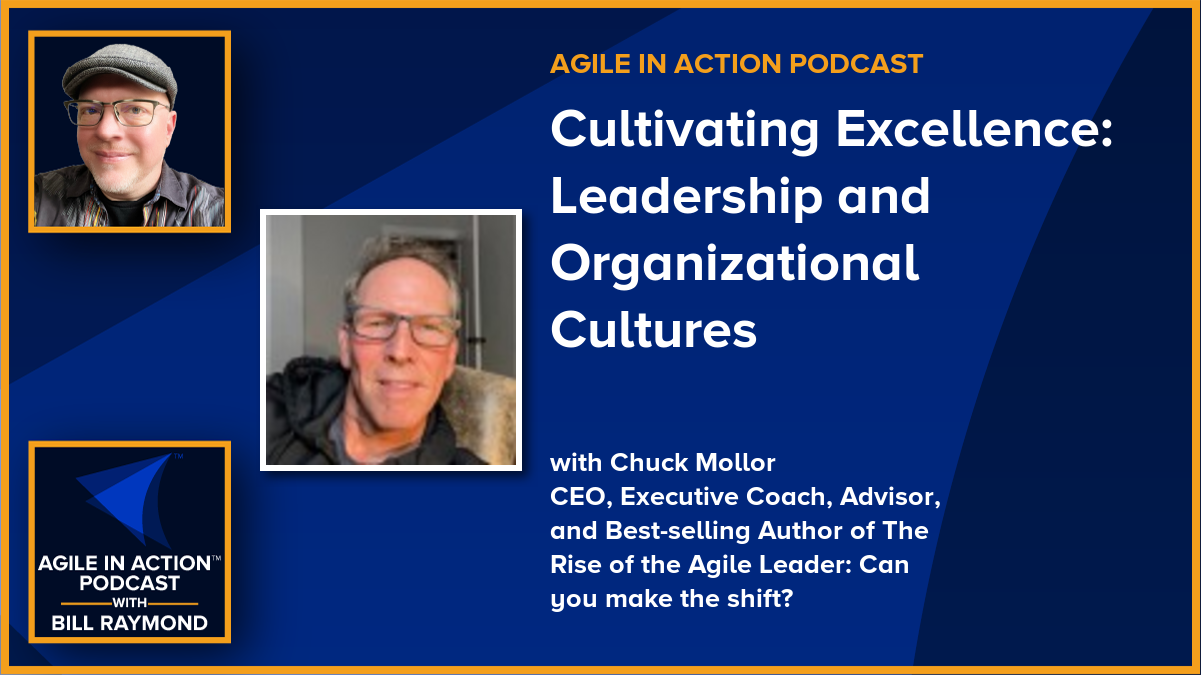
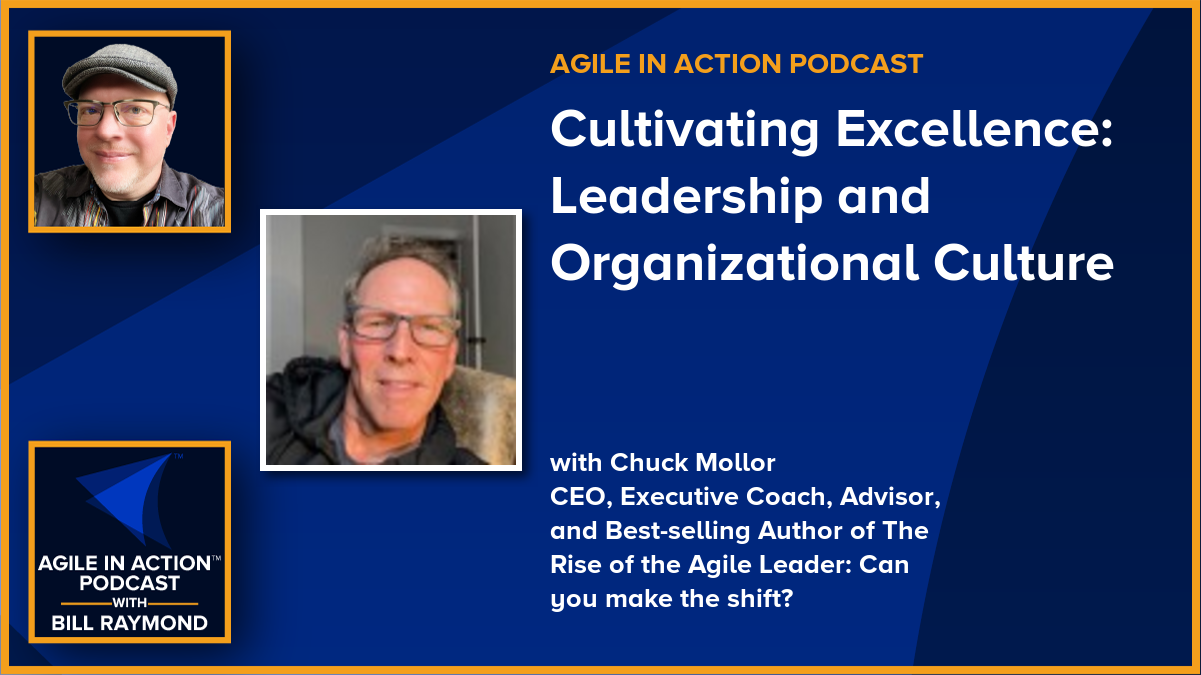
Jekyll build from Action

Changed region(s): [[0.4621, 0.4356, 0.647, 0.5289], [0.7702, 0.3422, 0.9242, 0.4356]]

diff --git a/agile-in-action-podcast/2023/10/24/cultivating-excellence-leadership-and-organizational-cultures.html b/agile-in-action-podcast/2023/10/24/cultivating-excellence-leadership-and-organizational-cultures.html
@@ -6,10 +6,10 @@
   <title>The Agile in Action with Bill Raymond Podcast</title>
   <meta name="twitter:card" content="summary_large_image">
   <meta name="twitter:creator" content="@billraymonde" />
-  <meta name="twitter:title" content="Cultivating Excellence: Leadership and Organizational Cultures">
+  <meta name="twitter:title" content="Cultivating Excellence: Leadership and Organizational Culture">
   <meta name="twitter:image" content="https://www.agileinaction.com/uploads/wf-featured-images/2023-10-24-cultivating-excellence-leadership-and-organizational-cultures.png">
   <meta property="og:image" content="https://www.agileinaction.com/uploads/wf-featured-images/2023-10-24-cultivating-excellence-leadership-and-organizational-cultures.png">
-  <meta property="og:description" content="Cultivating Excellence: Leadership and Organizational Cultures"/>
+  <meta property="og:description" content="Cultivating Excellence: Leadership and Organizational Culture"/>
   <meta property="og:image:type" content="image/png">
   <meta property="og:image:width" content="1200">
   <meta property="og:image:height" content="675">  
@@ -34,7 +34,7 @@
   <header class="post-header">
     
     <div class="header-featured">
-        <img src="/uploads/wf-featured-images/2023-10-24-cultivating-excellence-leadership-and-organizational-cultures-no-play.png" alt="Cultivating Excellence: Leadership and Organizational Cultures">
+        <img src="/uploads/wf-featured-images/2023-10-24-cultivating-excellence-leadership-and-organizational-cultures-no-play.png" alt="Cultivating Excellence: Leadership and Organizational Culture">
     </div>
     <div class="podcast-youtube-player" itemprop="podcastYouTubePlayer"><h4>Watch now (here is a <a href="https://www.youtube.com/watch?v=0zRhgENK5sw">direct link</a>)</h4>
         <iframe id="ytplayer" type="text/html" width="300" height="168.75"
@@ -65,7 +65,7 @@
             <img class="podcast-badge" itemprop="podcastBadge" src="/assets/podcast-badges/badge-google-podcasts.png" alt="alt">
         </a></div>
 <p></p>
-    <h1 class="post-title p-name" itemprop="name headline">Cultivating Excellence: Leadership and Organizational Cultures</h1>
+    <h1 class="post-title p-name" itemprop="name headline">Cultivating Excellence: Leadership and Organizational Culture</h1>
     <p class="post-meta">
       <time class="dt-published" datetime="2023-10-24T00:00:00+00:00" itemprop="datePublished">Oct 24, 2023
       </time>• <span itemprop="author" itemscope itemtype="http://schema.org/Person"><span class="p-author h-card" itemprop="name">Bill Raymond</span></span></p>

diff --git a/admin/index.html b/admin/index.html
@@ -38,8 +38,8 @@
 <p>Total guests: 115</p>
 <h2 class="post-list-heading">Latest Agile in Action Podcast with Bill Raymond</h2>
 
-<ul class="post-list"><li><h3>Oct 24, 2023</h3><a href="/agile-in-action-podcast/2023/10/24/cultivating-excellence-leadership-and-organizational-cultures.html"><img src="/uploads/wf-featured-images/2023-10-24-cultivating-excellence-leadership-and-organizational-cultures.png" alt="Cultivating Excellence: Leadership and Organizational Cultures"></a>
-          <h3><a class="post-link" href="/agile-in-action-podcast/2023/10/24/cultivating-excellence-leadership-and-organizational-cultures.html">Cultivating Excellence: Leadership and Organizational Cultures</a></h3><strong>with </strong><span class="guest-name" itemprop="name">Chuck Mollor, CEO, Executive Coach, Advisor, and Best-selling Author of The Rise of the Agile Leader: Can you make the shift?</span><br>https://agileinaction.com/agile-in-action-podcast/2023/10/24/cultivating-excellence-leadership-and-organizational-cultures.html</li></ul><a href="/allpodcasts">See all podcasts >></a>
+<ul class="post-list"><li><h3>Oct 24, 2023</h3><a href="/agile-in-action-podcast/2023/10/24/cultivating-excellence-leadership-and-organizational-cultures.html"><img src="/uploads/wf-featured-images/2023-10-24-cultivating-excellence-leadership-and-organizational-cultures.png" alt="Cultivating Excellence: Leadership and Organizational Culture"></a>
+          <h3><a class="post-link" href="/agile-in-action-podcast/2023/10/24/cultivating-excellence-leadership-and-organizational-cultures.html">Cultivating Excellence: Leadership and Organizational Culture</a></h3><strong>with </strong><span class="guest-name" itemprop="name">Chuck Mollor, CEO, Executive Coach, Advisor, and Best-selling Author of The Rise of the Agile Leader: Can you make the shift?</span><br>https://agileinaction.com/agile-in-action-podcast/2023/10/24/cultivating-excellence-leadership-and-organizational-cultures.html</li></ul><a href="/allpodcasts">See all podcasts >></a>
 <p></p>
 
 <p class="rss-subscribe">subscribe <a href="https://feeds.libsyn.com/257606/rss?_ga=2.185818153.1879997348.1668636242-117077834.1667517838">via RSS</a></p>

diff --git a/wf-01-create-fi/index.html b/wf-01-create-fi/index.html
@@ -134,7 +134,7 @@ magick convert fi-template.png `# load template background image`\
 <h2 id="testing-code">Testing code</h2>
 <p>This section creates the variables to use depending on the number of guests and guest titles</p>
 
-<div class="language-plaintext highlighter-rouge"><div class="highlight"><pre class="highlight"><code>Title: Cultivating Excellence: Leadership and Organizational Cultures
+<div class="language-plaintext highlighter-rouge"><div class="highlight"><pre class="highlight"><code>Title: Cultivating Excellence: Leadership and Organizational Culture
 
 
 
@@ -824,7 +824,7 @@ Title: Team topologies and an obsession over a rapid flow of change
 <h2 id="test-code">Test code</h2>
 <p>This section can be used to debug locally before adjusting the shell script.</p>
 
-<div class="language-plaintext highlighter-rouge"><div class="highlight"><pre class="highlight"><code>Title: Cultivating Excellence: Leadership and Organizational Cultures
+<div class="language-plaintext highlighter-rouge"><div class="highlight"><pre class="highlight"><code>Title: Cultivating Excellence: Leadership and Organizational Culture
 Size(new): 1
 First image: /uploads/chuck-mollor.jpeg
 Second image: 

diff --git a/wf-00-guest-images-fi/index.html b/wf-00-guest-images-fi/index.html
@@ -126,7 +126,7 @@ exit
 
 <h2 id="test-code">Test code</h2>
 <p>This section can be used to debug locally before adjusting the shell script
-    Title: Cultivating Excellence: Leadership and Organizational Cultures</p>
+    Title: Cultivating Excellence: Leadership and Organizational Culture</p>
 
 <div class="language-plaintext highlighter-rouge"><div class="highlight"><pre class="highlight"><code>    guest-photo: /uploads/chuck-mollor.jpeg
     filename: chuck-mollor.jpeg
